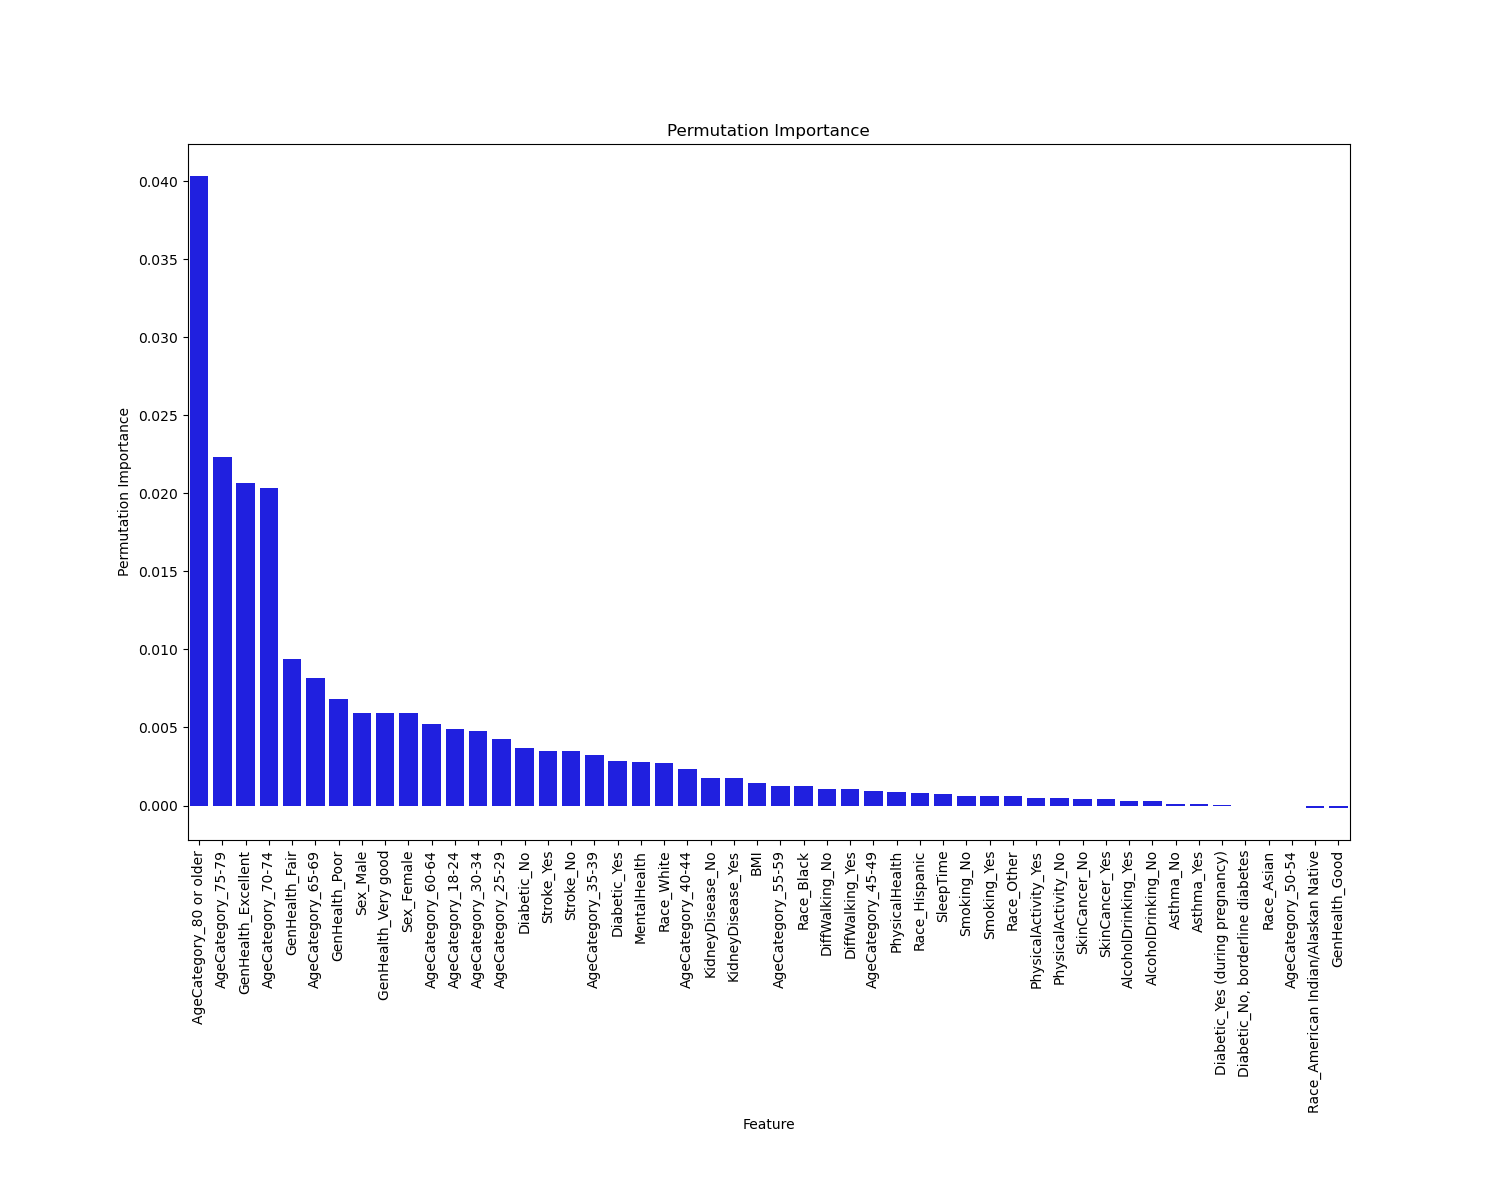
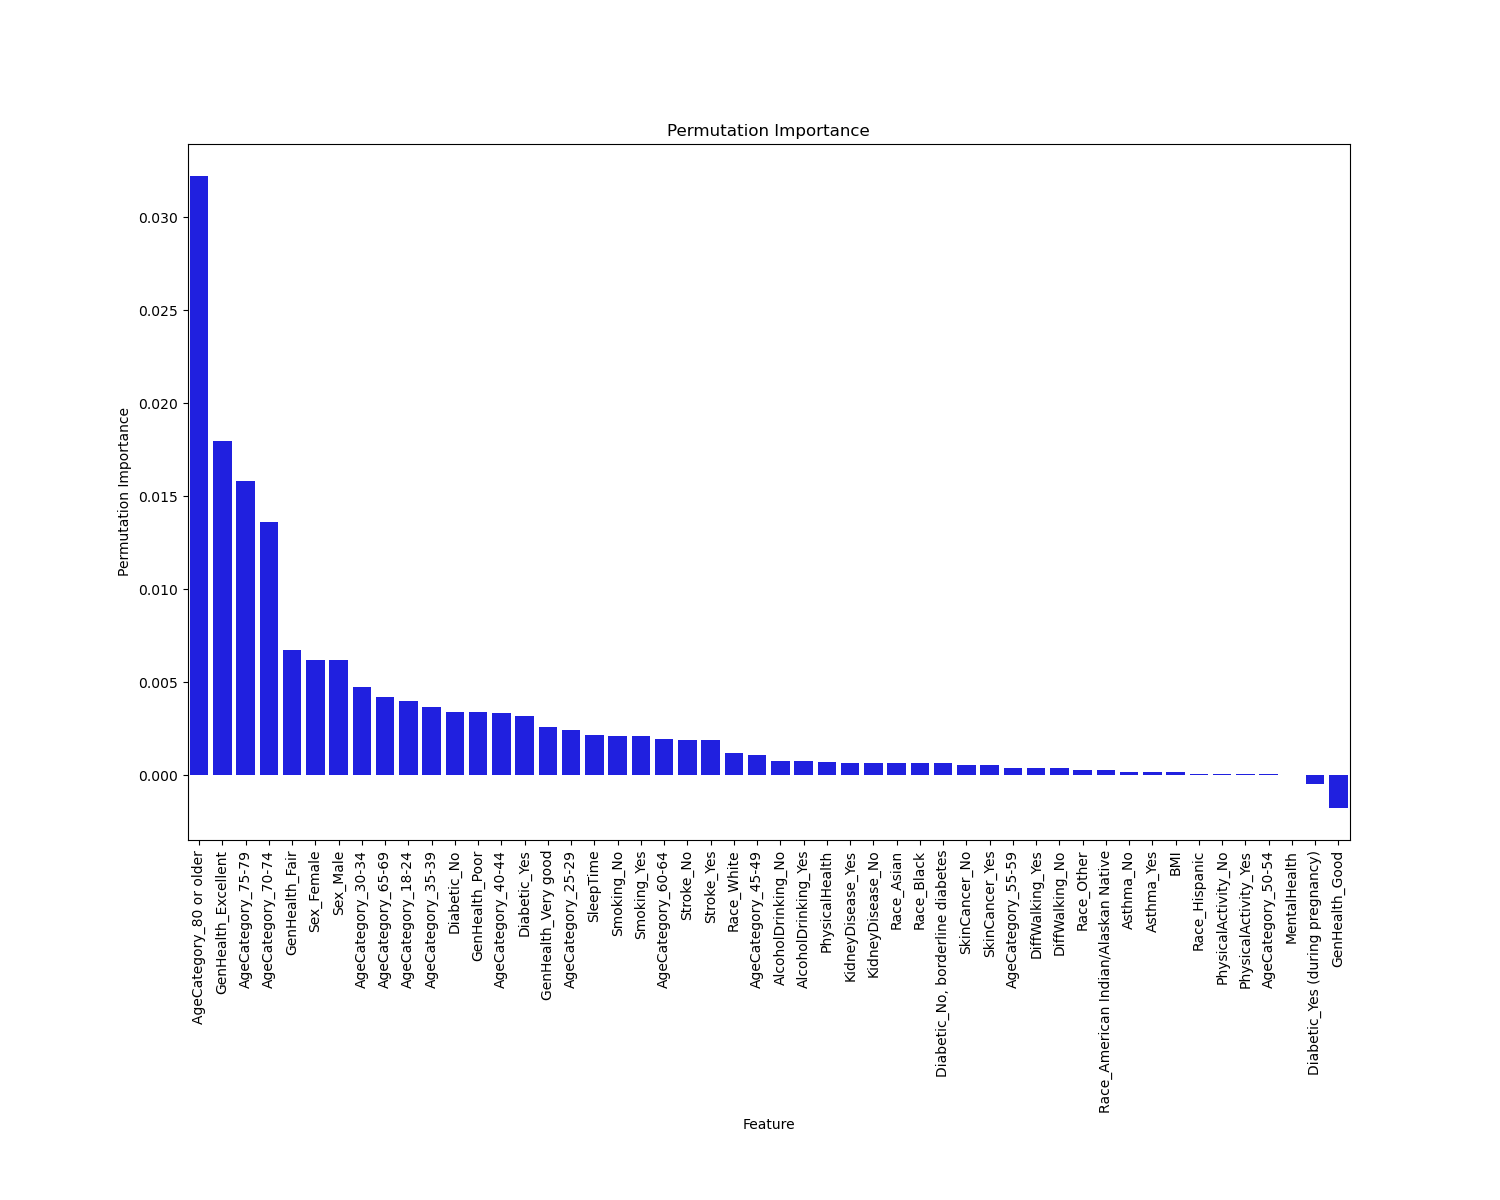
SVM: Cleaned up code

diff --git a/SVM_Leonard/code/svm.py b/SVM_Leonard/code/svm.py
@@ -59,16 +59,6 @@ data = pd.read_csv('../data/heart_2020_cleaned.csv',
                        'SkinCancer': 'category'
                    })
 
-data['AgeCategory'] = data['AgeCategory'].cat.reorder_categories(new_categories=['18-24', '25-29', '30-34', '35-39',
-                                                                                 '40-44', '45-49', '50-54', '55-59',
-                                                                                 '60-64', '65-69', '70-74', '75-79',
-                                                                                 '80 or older'], ordered=True)
-data['Diabetic'] = data['Diabetic'].cat.reorder_categories(new_categories=['No', 'No, borderline diabetes',
-                                                                           'Yes (during pregnancy)', 'Yes'],
-                                                           ordered=True)
-data['GenHealth'] = data['GenHealth'].cat.reorder_categories(new_categories=['Excellent', 'Very good', 'Good', 'Fair',
-                                                                             'Poor'], ordered=True)
-
 print(data.isna().sum())
 
 data['HeartDisease'] = data['HeartDisease'].map({'Yes': 1, 'No': 0})
